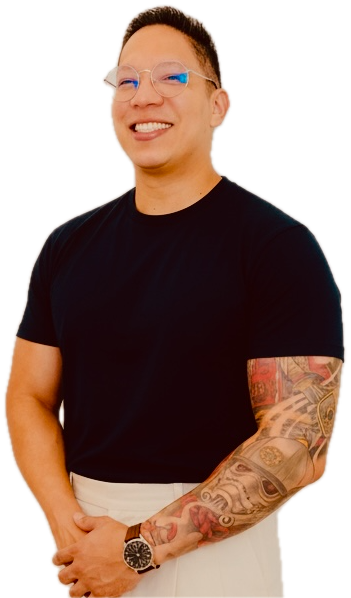
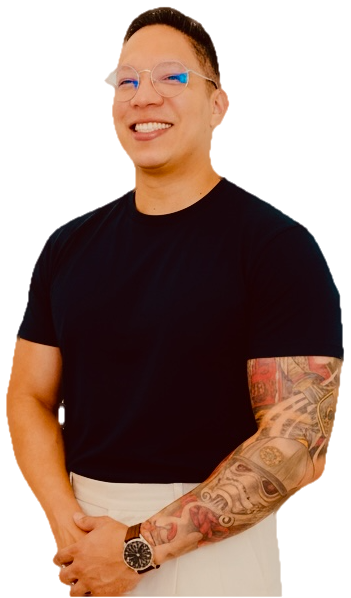
feat: retrato con disco coral sólido detrás del torso
- Las formas de fondo (aro, disco pequeño, órbita y sombra) se sustituyen
  por un único disco coral sólido centrado detrás del torso, elegido tras
  comparar rombos y círculos en varias posiciones.
- Blanco y negro algo más contrastado (contrast 1.12, brightness 1.03).
- Borde del recorte limpio: máscara contraída 1px, píxeles del borde
  teñidos con el interior de la figura y rampa de alfa endurecida, sin
  halo claro contra el coral y sin perder nitidez.
- El panel ya sólo fija `--color-shade`; AGENTS.md actualizado.

diff --git a/AGENTS.md b/AGENTS.md
@@ -46,7 +46,7 @@ Tailwind v4 is configured in CSS, not JavaScript — there is no `tailwind.confi
 - Text sitting **on** a coral fill is `navy`, not `paper`: white-on-coral is 3.1:1, navy-on-coral is 5.3:1. Coral+navy is a pair that survives the theme flip untouched, which is why both are literals.
 - Focus rings are `ink` (14.5:1), for the same contrast reason — see `:focus-visible` in `global.css`.
 - The one place coral carries text is the **stats numerals**, which the client asked for explicitly. On bone that is **2.7:1**, marginally under the 3:1 large-text floor (on navy, in dark mode, it is 5.3:1 and fine). It ships that way deliberately; the mitigation is that every figure sits directly above its label in ink, so coral is never the sole carrier. If it ever needs to pass outright, add a `--color-coral-deep` used only for text on bone rather than restyling the stats.
-- Light mode spends real colour in exactly **three** places, chosen to span the page's arc: the coral shapes in the hero portrait panel, the stats slab, and the Contact icon fills. Everything between them stays on ink hairlines. Adding a fourth scatters it — the brief for this phase was explicit about picking 2-3 moments and keeping the rest calm.
+- Light mode spends real colour in exactly **three** places, chosen to span the page's arc: the coral disc in the hero portrait panel, the stats slab, and the Contact icon fills. Everything between them stays on ink hairlines. Adding a fourth scatters it — the brief for this phase was explicit about picking 2-3 moments and keeping the rest calm.
 - Light and dark are deliberately **different moods, not matched intensities**. `--color-band` is the only token that forks for that reason: a dramatic navy slab against bone in light, the same quiet step as `shade` in dark, where the page is already navy.
 - `--color-stone` is the hero portrait panel's ground, constant in both themes (see the portrait notes below). Use `shade` everywhere else.
 - `--color-paper` is constant and is **not** a background token: it is white-that-stays-white, used only for the company-logo backdrop in Experience (favicons are drawn for white).
@@ -71,14 +71,14 @@ One route, [src/pages/index.astro](src/pages/index.astro), assembling the portfo
 
 The hero is two columns on desktop: everything textual on the left, the portrait alone on the right. The coral rule under the name sits inside `.hero__title`, a `fit-content` wrapper around the `<h1>`, so it is exactly as wide as the longer name line at every breakpoint — don't move it back out to span the grid.
 
-The portrait is a background-removed cutout, `public/images/profile_lm.png` (made with macOS Vision subject lifting from the original `profile_lm.jpeg`, which is kept). The PNG is **trimmed to the subject** (351×598, cropped, never resampled), and the `<img>` is absolutely positioned at 92% of the panel's height with `object-fit: contain`, anchored bottom. That trim is what lets the subject be large without upscaling: on desktop and phone it is drawn below its native size. The source resolution is the ceiling — to go bigger and stay sharp, re-cut from a higher-resolution original rather than scaling up. It is rendered `grayscale(1) contrast(1.04)`, with no tint layer.
+The portrait is a background-removed cutout, `public/images/profile_lm.png` (made with macOS Vision subject lifting from the original `profile_lm.jpeg`, which is kept). The PNG is **trimmed to the subject** (351×598, cropped, never resampled), and its edges were defringed (mask choked 1px, semi-transparent edge pixels recoloured from the opaque interior, and the alpha ramp tightened to 60–220 so the edge stays crisp instead of blurring) so no light halo from the original wall shows against the coral disc or a dark ground. The `<img>` is absolutely positioned at 92% of the panel's height with `object-fit: contain`, anchored bottom. That trim is what lets the subject be large without upscaling: on desktop and phone it is drawn below its native size. The source resolution is the ceiling — to go bigger and stay sharp, re-cut from a higher-resolution original rather than scaling up. It is rendered `grayscale(1) contrast(1.12) brightness(1.03)`, with no tint layer.
 
 More about the portrait:
 
 - **It is a square panel at every breakpoint.** On desktop the photo column is `clamp(20rem, 44%, 32rem)`, so the square roughly matches the text block's height while leaving the name ~410px at a 900px viewport; it is vertically centred across the rows. Below 900px it runs the full shell width under the rule (on tablet that pushes the role and CTA below the fold — an accepted trade-off).
-- **It does not change with the theme.** `.hero__shot` pins `--color-ink` to `navy` and `--color-shade` to `stone` for its subtree, so the panel ground and the shapes keep their light-mode colours in dark mode. This also hides the cutout's faint light edge fringe, which only showed against navy.
+- **It does not change with the theme.** `.hero__shot` pins `--color-shade` to `stone`, so the panel ground keeps its light-mode colour in dark mode; the disc is coral, which never flips anyway.
 - **It stays inside the shell.** Its right edge lands on the same vertical as the stats, every section pane and the footer. A version that bled to the viewport edge was rejected for breaking that alignment — don't reintroduce it. There is likewise no `mask-image` fade on the bottom edge; that was rejected too.
-- **The `.orb` shapes live inside the panel, behind the cutout**: a grey halo ring behind the head, a solid coral disc, a tilted coral-stroke ellipse and a tonal floor ellipse, all sized in panel percentages. They are deliberately hero-local; free-floating decorative shapes elsewhere on the page were tried and cut, so don't scatter more. The earlier `.echo` outlines beside the photo were removed at the client's request.
+- **One solid coral disc sits behind the torso** (`.hero__disc`: 80% of the panel width, top at 16%, centred), so the head rises above it and the panel's bottom edge cuts it. It was chosen over a rounded rhombus and several other shapes and positions after side-by-side comparisons — don't add more shapes around it. Free-floating decorative shapes elsewhere on the page were tried and cut, and so were the earlier `.echo` outlines beside the photo.
 
 Every section except Hero and Stats is wrapped in [src/components/Section.astro](src/components/Section.astro), which owns the whole layout language: a narrow left rail holding a right-aligned, sticky display title (plus an optional `meta` count), a 1px seam, and a wide content pane. The seam is the pane's `border-left` rather than its own element, and the vertical padding lives *inside* the pane — that is what makes the rule run unbroken from About to Contact, so don't move the padding out to the section. One breakpoint at 900px collapses the rail above the pane. `tone="shade"` gives a section a full-bleed `--color-shade` ground (only Technologies uses it, for scroll rhythm); `as="footer"` is how Contact stays a `<footer>`.
 
